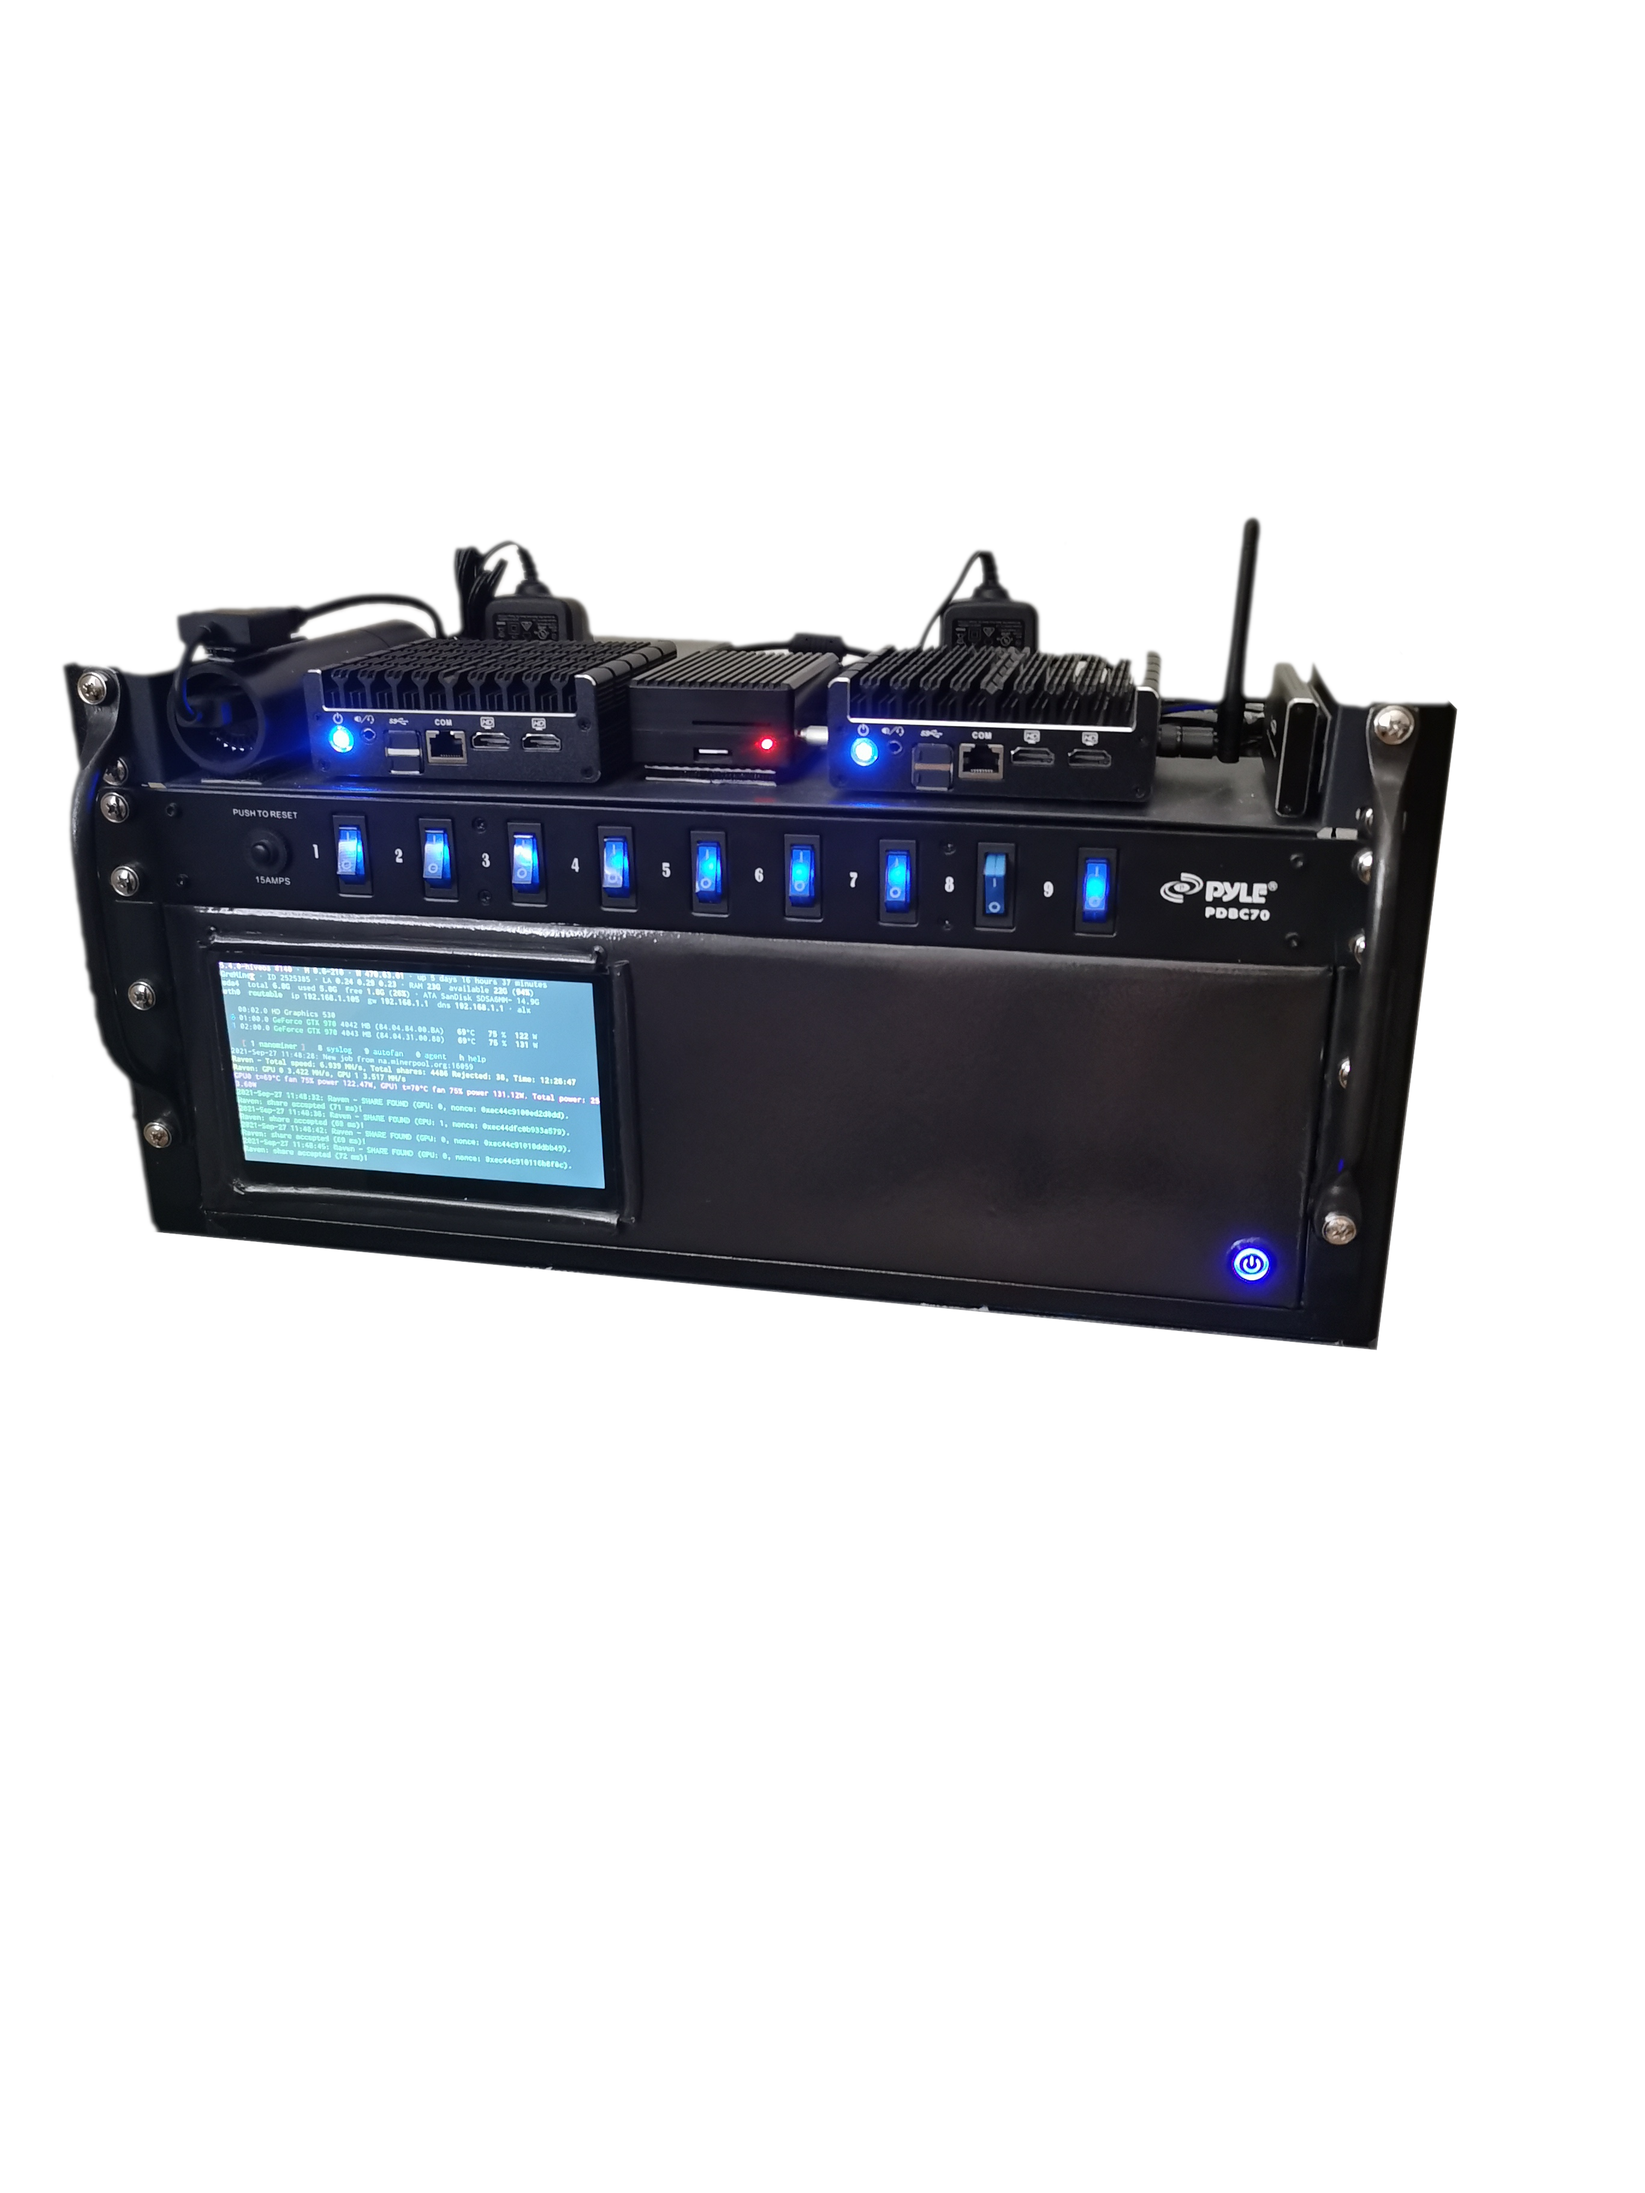
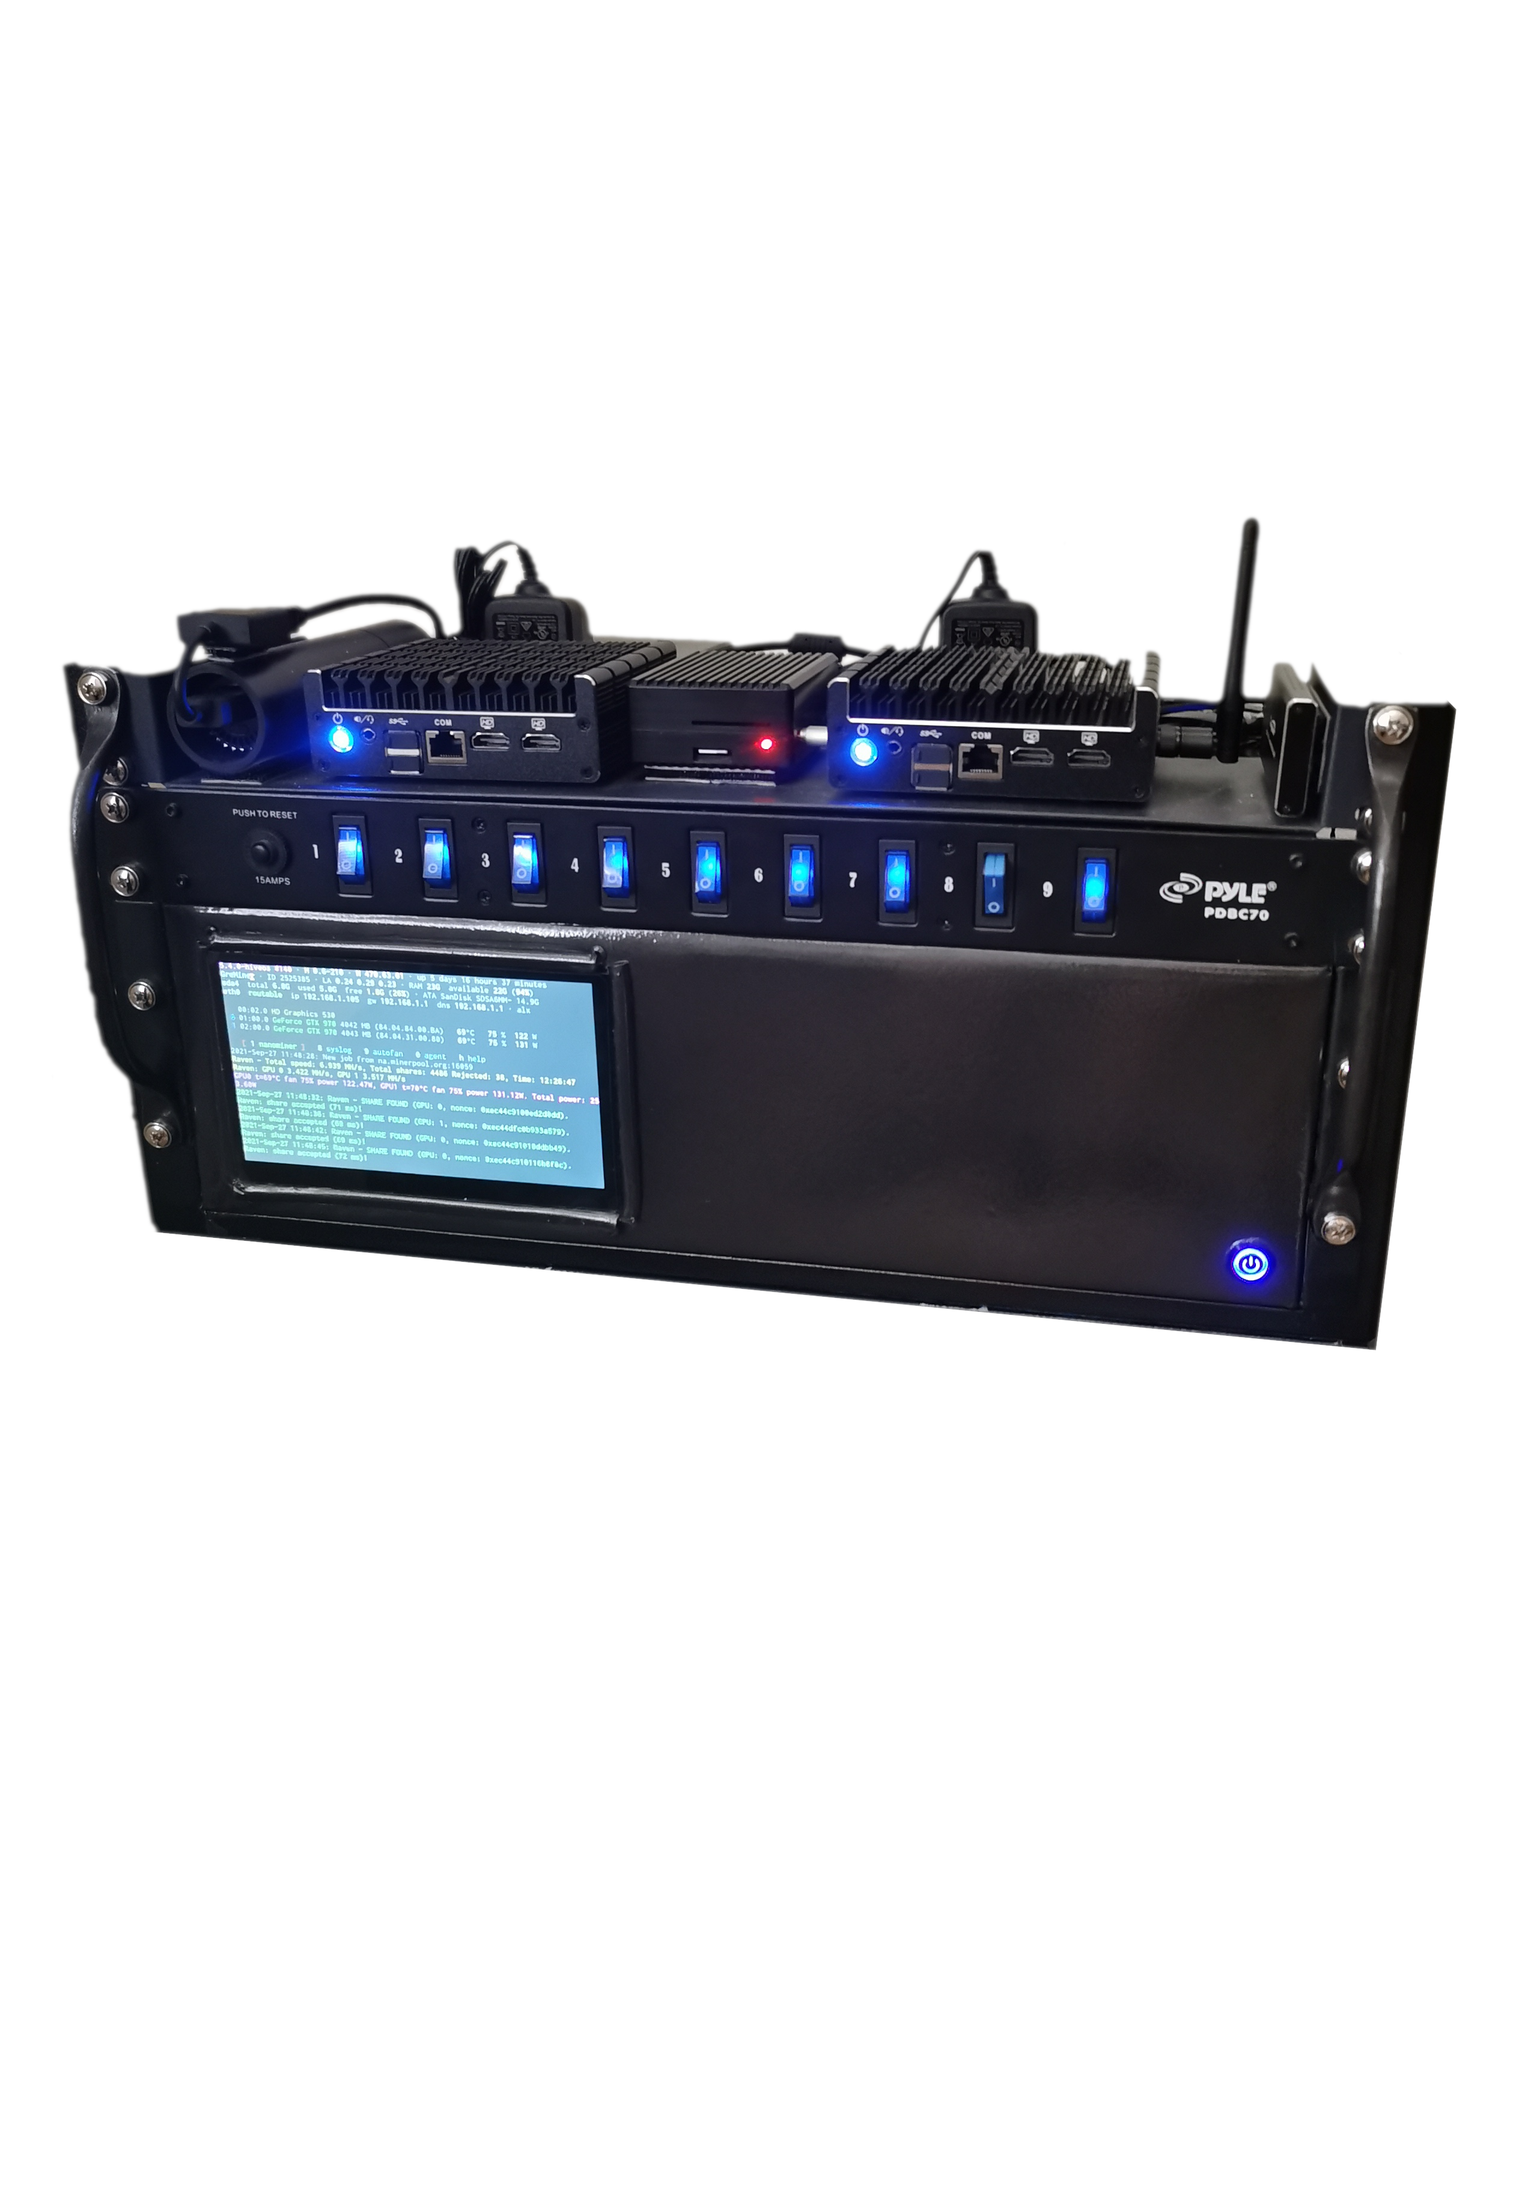
Adjusted new pic, final.

Changed region(s): [[0.031, 0.2175, 0.9611, 0.6216]]

diff --git a/GrePC.css b/GrePC.css
@@ -1,6 +1,6 @@
 .bg1 {
   background: url("Images/RigPic.png")center;
-  padding-bottom: 550px;
+  padding-bottom: 565px;
   background-repeat: no-repeat;
   /* background-attachment: fixed; */
   background-size: cover;
